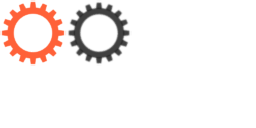
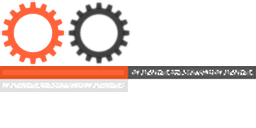
+ Added bars textures to atlas

Changed region(s): [[0.0, 0.5, 1.0, 0.7188]]

diff --git a/core/src/at/fhooe/im440/workbench/services/EntityManager/EntityFactory.java b/core/src/at/fhooe/im440/workbench/services/EntityManager/EntityFactory.java
@@ -49,6 +49,12 @@ public class EntityFactory implements Service {
 		return this.createEntity(TestEntity.class, new StaticPose(x, y), spriteVisual, collisionVisual, new CircleCollider(1f));
 	}
 	
+	public Entity createBar(float x, float y) {
+		CollisionVisual collisionVisual = new CollisionVisual().setRegion(ServiceManager.getService(AssetManager.class).getRegion("bar1_shadow"));
+		SpriteVisual spriteVisual = new SpriteVisual(ServiceManager.getService(AssetManager.class).getRegion("bar1")).width(5f).height(.5f).setOriginCenter();
+		return this.createEntity(TestEntity.class, new StaticPose(x, y), spriteVisual, collisionVisual, new BoxCollider(5f, .5f));
+	}
+	
 	public Entity cloneEntity(Entity entity) {
 		if (entity.getComponent(Collider.class) instanceof CircleCollider) {
 			return this.createCogwheel(entity.getComponent(Pose.class).getPosX(), entity.getComponent(Pose.class).getPosY()).addComponent(new Editable());

diff --git a/core/src/at/fhooe/im440/workbench/screens/EditorScreen.java b/core/src/at/fhooe/im440/workbench/screens/EditorScreen.java
@@ -36,6 +36,7 @@ public class EditorScreen extends ScreenAdapter implements Screen {
 		this.entities = new ArrayList<Entity>();
 		this.entities.add(ServiceManager.getService(EntityFactory.class).createCogwheel(5f, 5f).addComponent(new Editable()));
 		this.entities.add(ServiceManager.getService(EntityFactory.class).createCogwheel(.5f, .5f).addComponent(new Editable()));
+		this.entities.add(ServiceManager.getService(EntityFactory.class).createBar(2f, 10f).addComponent(new Editable()));
 	}
 	
 	@Override
